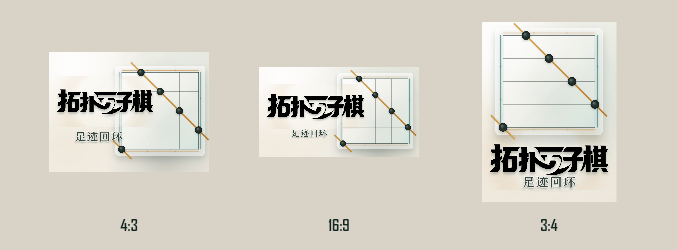
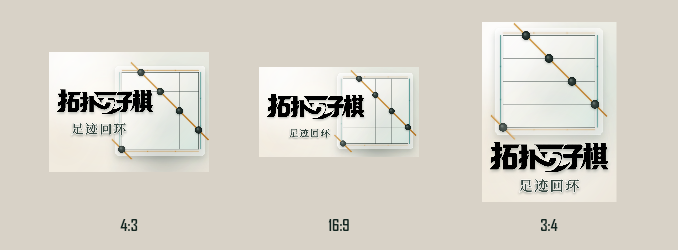
fix: refine final cover glow and spacing

diff --git a/tests/chapter-teaser-visual.test.js b/tests/chapter-teaser-visual.test.js
@@ -484,9 +484,14 @@ test("cover exports keep exact publishing copy and three requested safe aspect r
   assert.match(source, /drawBoardFoundation/);
   assert.match(source, /opaqueSurface\.addColorStop\(0, "rgba\(255,255,255,0\.86\)"\)/);
   assert.match(source, /shadowColor = "rgba\(19,38,33,0\.28\)"/);
-  assert.match(source, /wordmarkDepth: "warm halo plus restrained dark cast shadow"/);
+  assert.match(source, /wordmarkDepth: "bright continuous full-frame neutral glow, luminous edge halo, and restrained downward dark cast shadow"/);
+  assert.match(source, /ctx\.fillRect\(0, 0, ctx\.canvas\.width, ctx\.canvas\.height\)/);
+  assert.match(source, /ctx\.shadowColor = "rgba\(255,252,242,0\.76\)"/);
+  assert.doesNotMatch(source, /ctx\.shadowOffsetY = -minimum/);
   assert.match(source, /subtitle: "larger Topo Serif PV title, soft ivory outline, no underline"/);
   assert.match(source, /underline: false/);
+  assert.match(source, /subtitle: Object\.freeze\(\{ x: 0\.31, y: 0\.635, size: 0\.105 \}\)/);
+  assert.match(source, /wordmark: Object\.freeze\(\{ x: 0\.06, y: 0\.66[\s\S]*subtitle: Object\.freeze\(\{ x: 0\.50, y: 0\.905, size: 0\.103 \}\)/);
   assert.match(source, /3x4: the approved wordmark must not cover the board or its lower-left stone/);
   assert.doesNotMatch(source, /sphere\.svg/);
 

diff --git a/video/chapter-teaser/README.md b/video/chapter-teaser/README.md
@@ -101,7 +101,7 @@ npm run pv:social:xiaohongshu -- --overwrite
 npm run pv:covers
 ```
 
-最终封面输出位于 `video/chapter-teaser/deliverables/covers/`：4:3 为 1600 × 1200，16:9 为 1920 × 1080，3:4 为 1080 × 1440。字标固定使用用户确认的 `assets/cover-final/wordmark.png`，渲染器只裁切透明留白并添加暖色光晕与克制投影，不重绘字形。主视觉使用实机环游 4 × 4 格棋盘与真实跨界五连路径，在纸玻璃棋盘下增加较高不透明度的承托层、接触阴影和柔和投影。横版允许字标覆盖棋盘以形成前后层次；3:4 竖版将字标完整排在棋盘下方并保留明显间隔，确保左下角棋子不被遮挡。“足迹回环”使用更大的内嵌衬线字体、浅色轮廓与投影，不再带短横线。同目录保存发布文案、来源哈希、三比例审阅图、真实缩略图及交付清单。
+最终封面输出位于 `video/chapter-teaser/deliverables/covers/`：4:3 为 1600 × 1200，16:9 为 1920 × 1080，3:4 为 1080 × 1440。字标固定使用用户确认的 `assets/cover-final/wordmark.png`，渲染器只裁切透明留白并添加覆盖全画布、连续衰减的中性光晕与向下投影，不重绘字形，也不以矩形裁切光晕。主视觉使用实机环游 4 × 4 格棋盘与真实跨界五连路径，在纸玻璃棋盘下增加较高不透明度的承托层、接触阴影和柔和投影。横版允许字标覆盖棋盘以形成前后层次；3:4 竖版将字标完整排在棋盘下方并保留明显间隔，确保左下角棋子不被遮挡。“足迹回环”使用更大的内嵌衬线字体、浅色轮廓与投影，不再带短横线；4:3 单独上移以靠近主字标，3:4 则下移并拉开两级标题间距。同目录保存发布文案、来源哈希、三比例审阅图、真实缩略图及交付清单。
 
 封面方向探索另用下列命令生成，不覆盖上述已交付封面：
 
